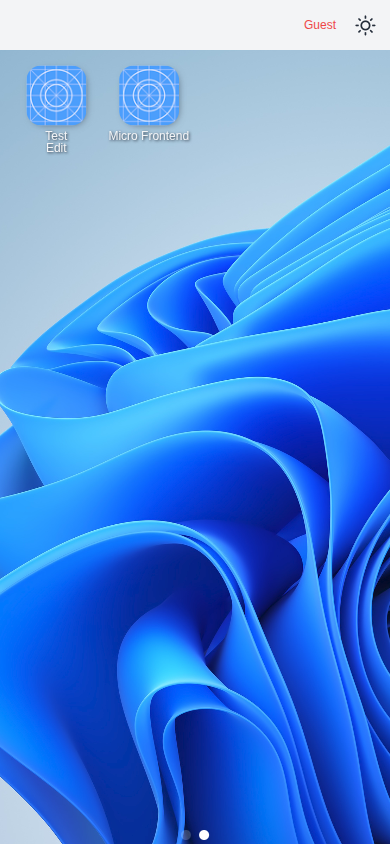
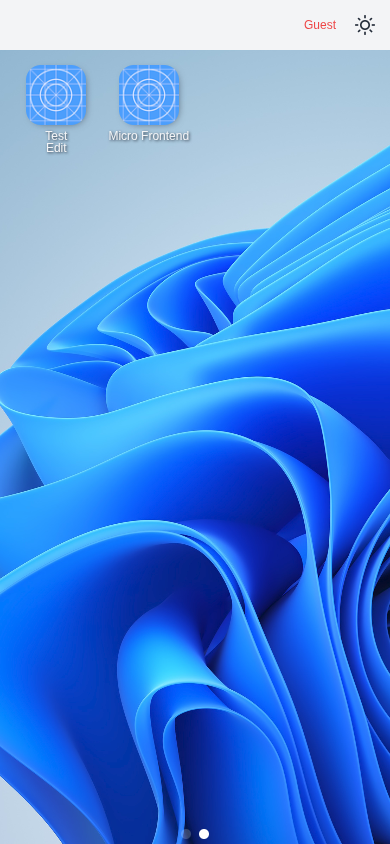
Test V

diff --git a/app/playwright.config.ts b/app/playwright.config.ts
@@ -34,11 +34,23 @@ export default defineConfig({
 		// video: "on",
 		launchOptions: {
 			// slowMo: 1000,
+			args: [
+				"--font-render-hinting=none", // Disable font hinting for consistent rendering
+				"--disable-skia-runtime-opts", // Disable Skia optimizations
+				"--disable-font-subpixel-positioning", // Disable subpixel positioning
+				"--disable-lcd-text", // Disable LCD text rendering
+			],
 		},
 		ignoreHTTPSErrors: true,
 	},
 	expect: {
-		toHaveScreenshot: { maxDiffPixels: 5 },
+		toHaveScreenshot: {
+			maxDiffPixels: 5,
+			// Alternative: use percentage-based threshold instead
+			// maxDiffPixelRatio: 0.01, // 1% of pixels can differ
+			animations: "disabled", // Disable animations for consistent screenshots
+			scale: "css", // Use CSS pixels instead of device pixels
+		},
 	},
 	/* Configure projects for major browsers */
 	projects: [
